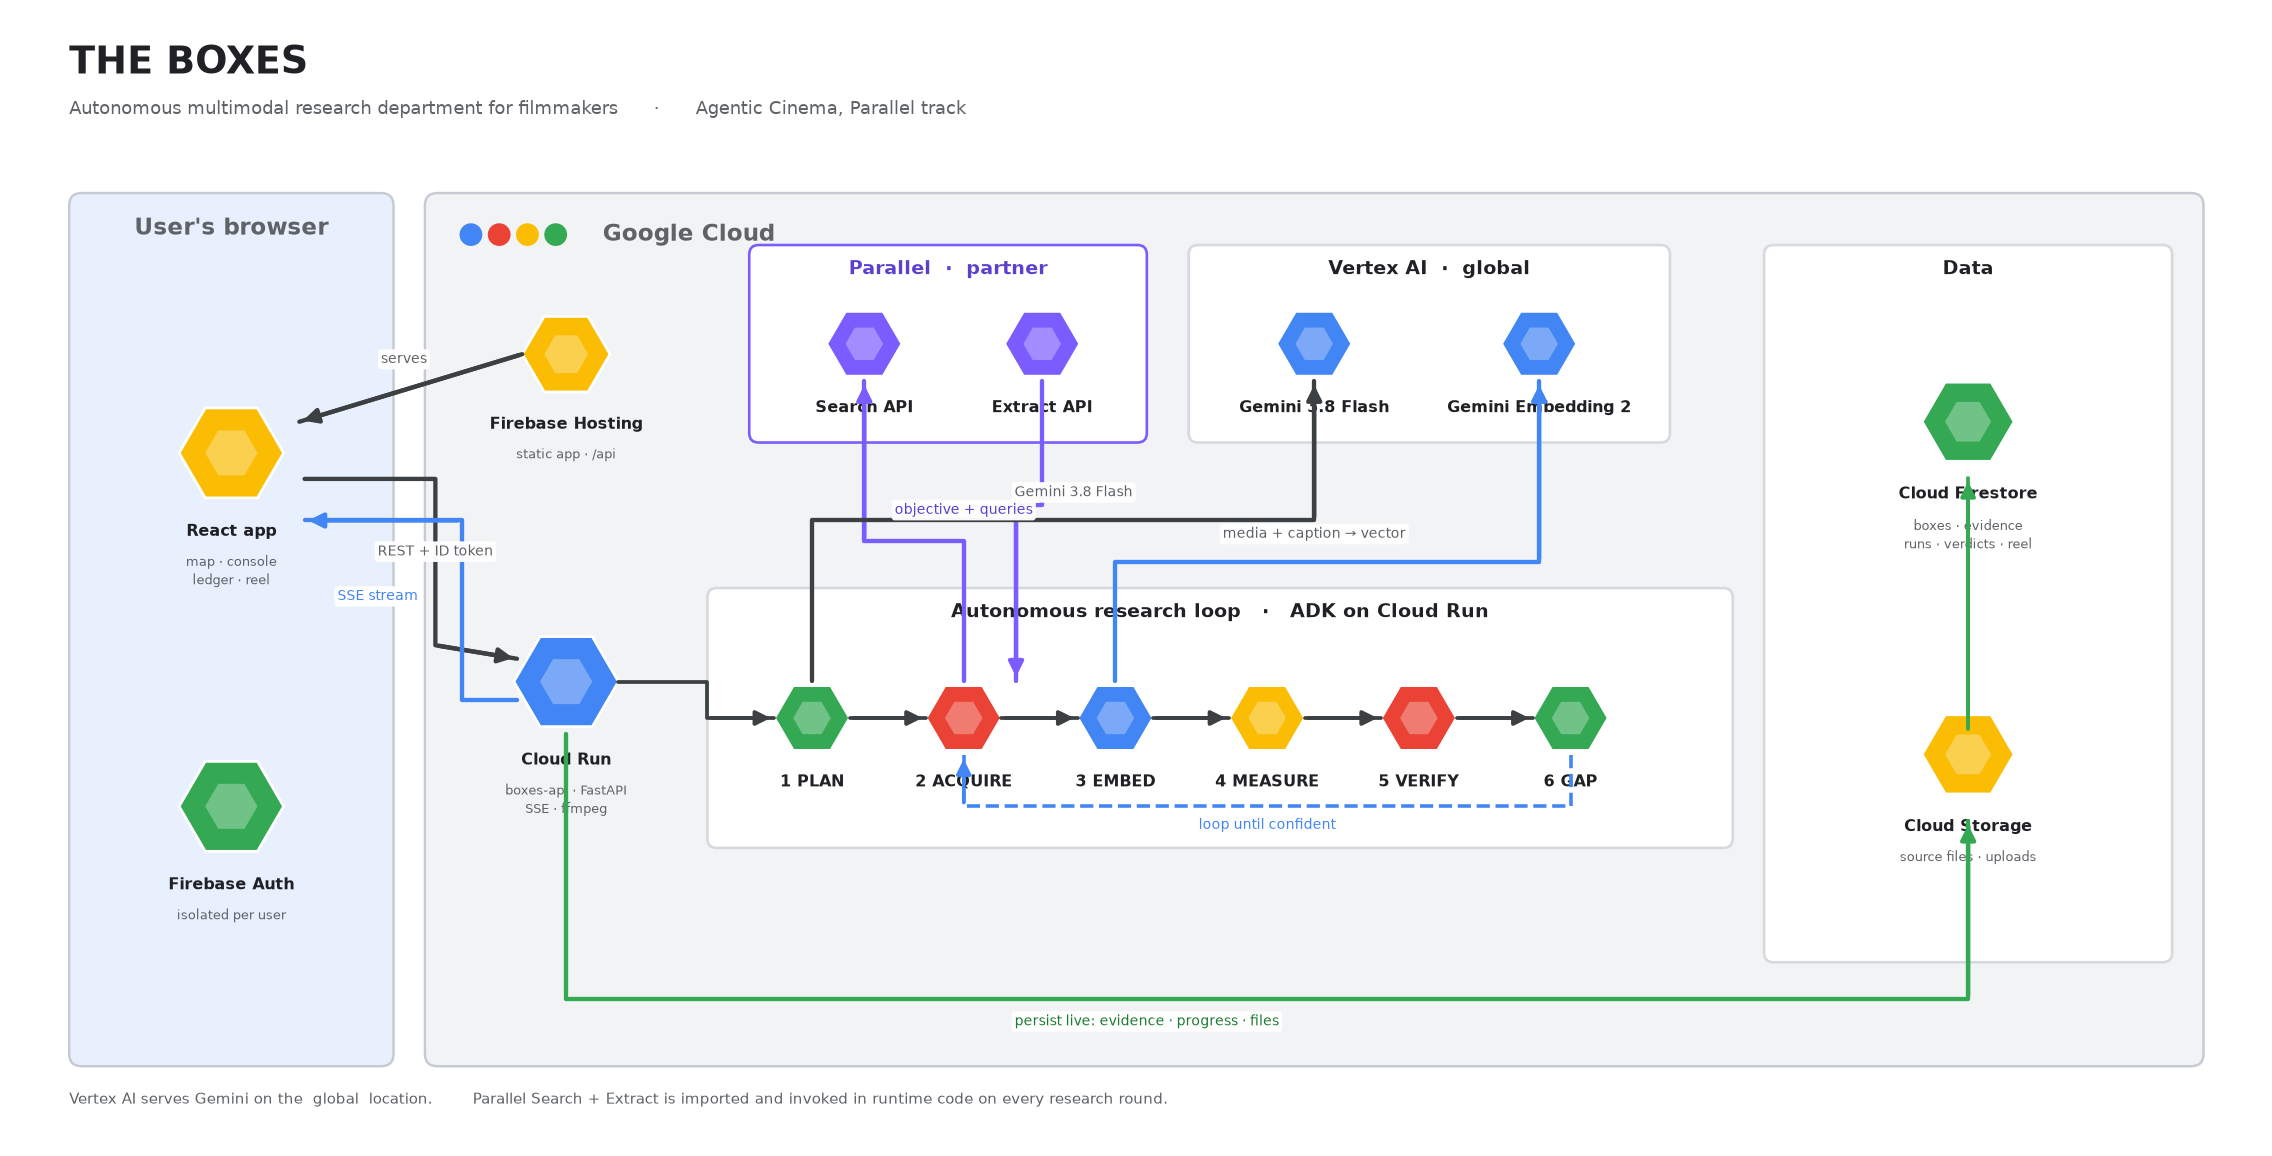
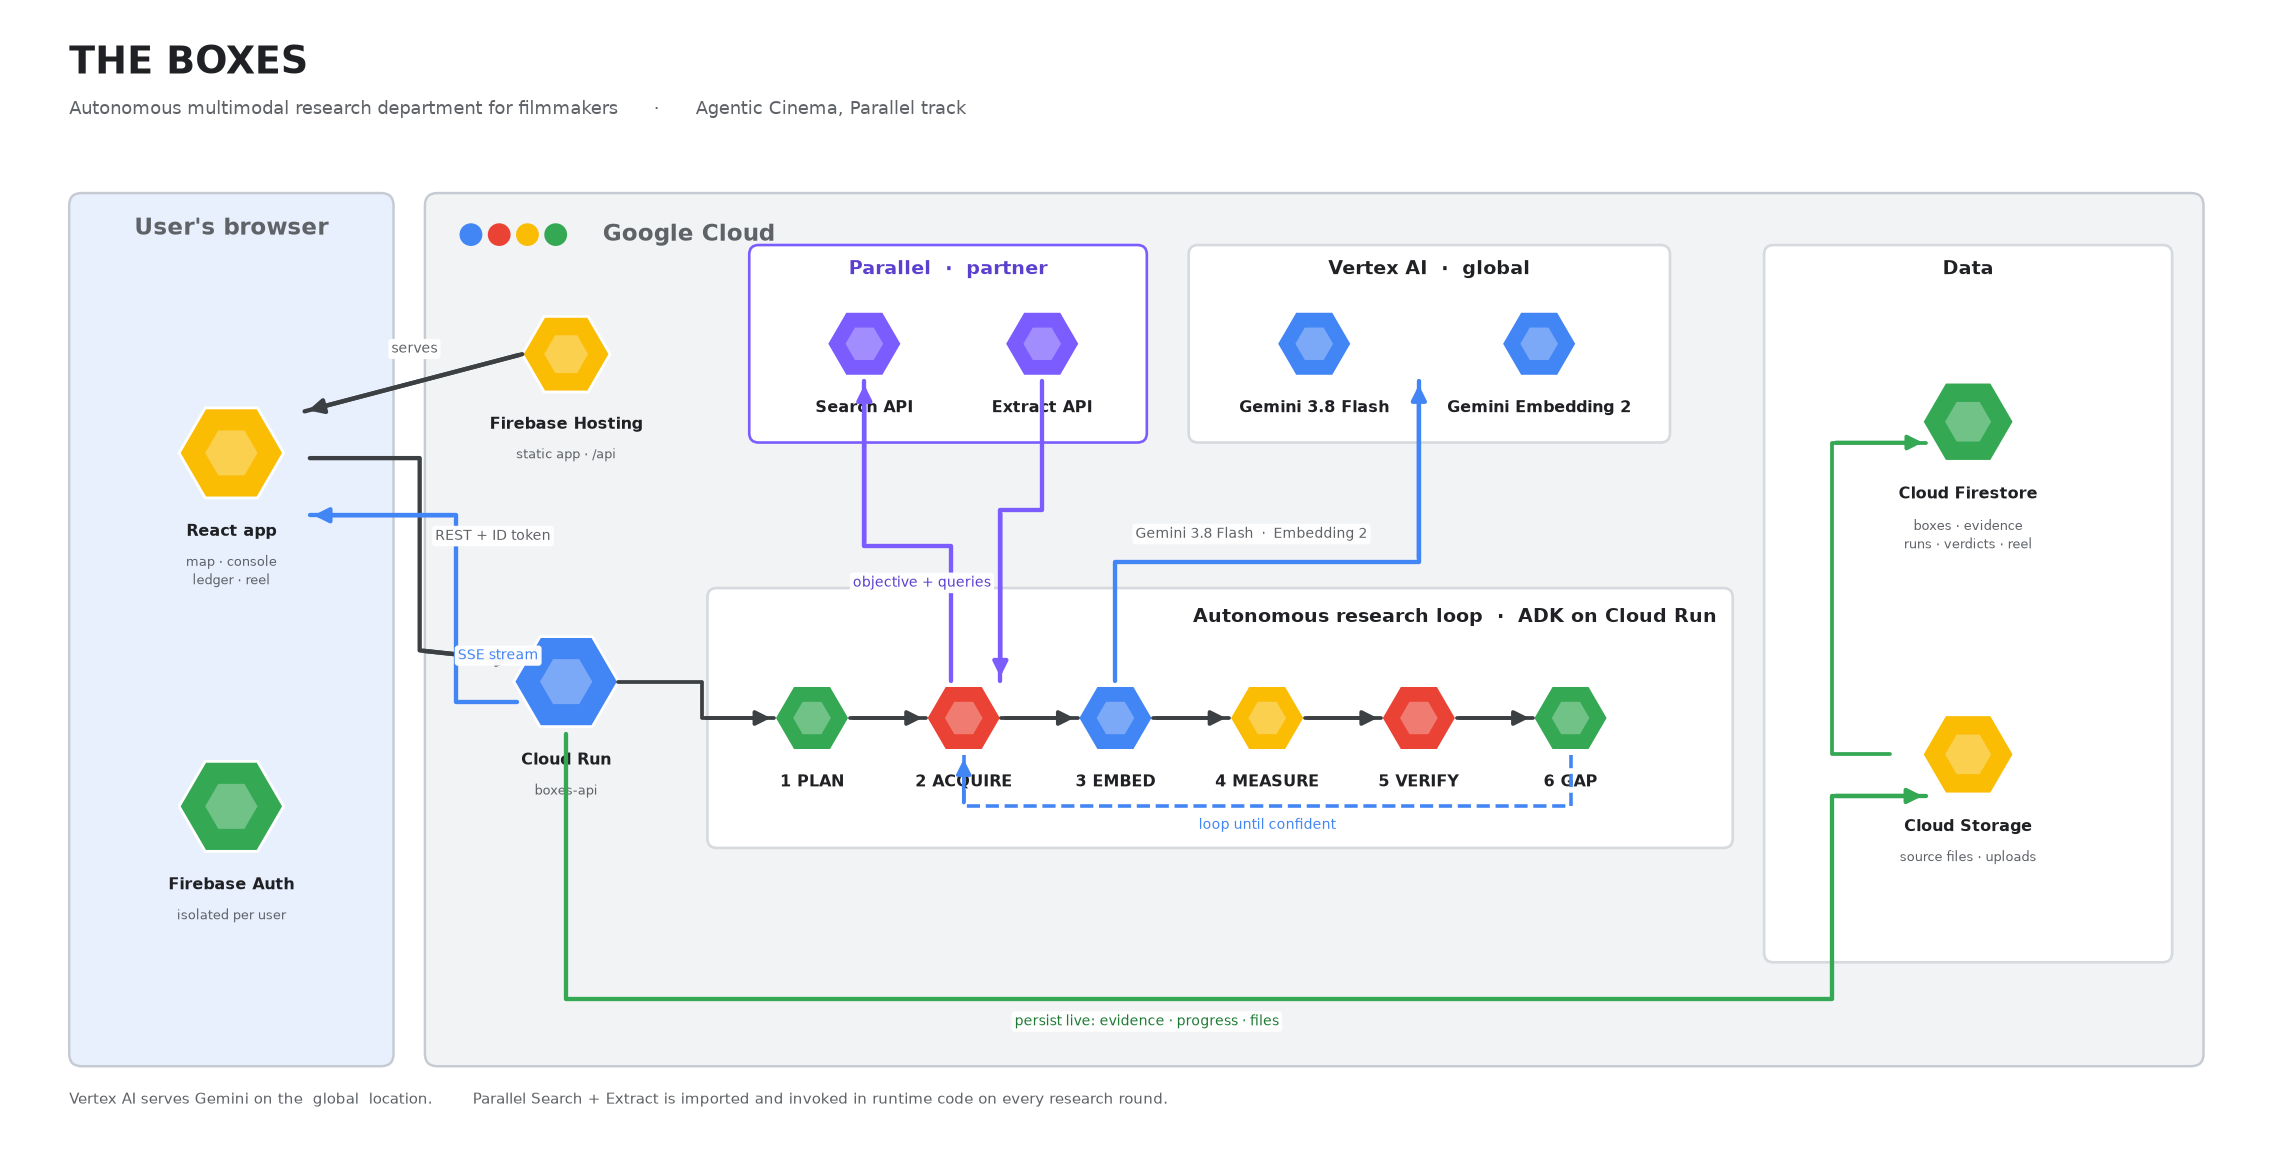
Diagram: move loop title clear of arrows; route Data arrows around labels

diff --git a/docs/architecture.py b/docs/architecture.py
@@ -71,7 +71,7 @@ zone(3.7, 0.5, 17.0, 8.4, "Google Cloud", Z_GREY, dots=True)
 
 # left column: Hosting + Cloud Run
 tile(5.05, 7.35, "Firebase Hosting", "static app · /api", color=YELLOW, r=0.42)
-tile(5.05, 4.2, "Cloud Run", "boxes-api · FastAPI\nSSE · ffmpeg", color=BLUE, r=0.5)
+tile(5.05, 4.2, "Cloud Run", "boxes-api", color=BLUE, r=0.5)
 
 # top strip: Parallel (partner) + Vertex AI
 cluster(6.8, 6.5, 3.8, 1.9, "Parallel  ·  partner", ec=PURPLE, tc="#5B3FCF")
@@ -81,8 +81,10 @@ cluster(11.0, 6.5, 4.6, 1.9, "Vertex AI  ·  global")
 tile(12.2, 7.45, "Gemini 3.8 Flash", color=BLUE, r=0.36)
 tile(14.35, 7.45, "Gemini Embedding 2", color=BLUE, r=0.36)
 
-# middle strip: the loop
-cluster(6.4, 2.6, 9.8, 2.5, "Autonomous research loop   ·   ADK on Cloud Run")
+# middle strip: the loop  (title right-aligned, clear of the upward arrows)
+cluster(6.4, 2.6, 9.8, 2.5, "")
+ax.text(16.05, 4.82, "Autonomous research loop  ·  ADK on Cloud Run", fontsize=10, color=INK,
+        weight="bold", ha="right", va="center", zorder=4)
 seq = [("1 PLAN", GREEN), ("2 ACQUIRE", RED), ("3 EMBED", BLUE),
        ("4 MEASURE", YELLOW), ("5 VERIFY", RED), ("6 GAP", GREEN)]
 lx0, dx, ly = 7.4, 1.45, 3.85
@@ -100,27 +102,25 @@ tile(18.45, 6.7, "Cloud Firestore", "boxes · evidence\nruns · verdicts · reel
 tile(18.45, 3.5, "Cloud Storage", "source files · uploads", color=YELLOW, r=0.44)
 
 # ── flow ─────────────────────────────────────────────────────────────
-wire([(4.63, 7.35), (2.5, 6.7)], text="serves", tp=(3.5, 7.3))
-wire([(2.55, 6.15), (3.8, 6.15), (3.8, 4.55), (4.58, 4.42)], text="REST + ID token", tp=(3.8, 5.45))
-wire([(4.58, 4.02), (4.05, 4.02), (4.05, 5.75), (2.55, 5.75)],
-     color=BLUE, tcol=BLUE, text="SSE stream", tp=(3.25, 5.02))
-wire([(5.55, 4.2), (6.4, 4.2), (6.4, ly), (cxs[0] - 0.36, ly)], lw=2.0)
+wire([(4.63, 7.35), (2.55, 6.8)], text="serves", tp=(3.6, 7.4))
+wire([(2.6, 6.35), (3.65, 6.35), (3.65, 4.5), (4.58, 4.4)], text="REST + ID token", tp=(4.35, 5.6))
+wire([(4.58, 4.0), (4.0, 4.0), (4.0, 5.8), (2.6, 5.8)],
+     color=BLUE, tcol=BLUE, text="SSE stream", tp=(4.4, 4.45))
+wire([(5.55, 4.2), (6.35, 4.2), (6.35, ly), (cxs[0] - 0.36, ly)], lw=2.0)
 
-# loop <-> Parallel (up)
-wire([(cxs[1], ly + 0.36), (cxs[1], 5.55), (7.9, 5.55), (7.9, 7.09)],
-     color=PURPLE, tcol="#5B3FCF", text="objective + queries", tp=(cxs[1], 5.85))
-wire([(9.6, 7.09), (9.6, 5.9), (cxs[1] + 0.5, 5.9), (cxs[1] + 0.5, ly + 0.36)], color=PURPLE)
+# loop <-> Parallel (up), both directions
+wire([(cxs[1] - 0.12, ly + 0.36), (cxs[1] - 0.12, 5.5), (7.9, 5.5), (7.9, 7.09)],
+     color=PURPLE, tcol="#5B3FCF", text="objective + queries", tp=(cxs[1] - 0.4, 5.15))
+wire([(9.6, 7.09), (9.6, 5.85), (cxs[1] + 0.35, 5.85), (cxs[1] + 0.35, ly + 0.36)], color=PURPLE)
 
-# loop -> Vertex (up)
-wire([(cxs[0], ly + 0.36), (cxs[0], 5.75), (12.2, 5.75), (12.2, 7.09)], text="Gemini 3.8 Flash",
-     tp=(9.9, 6.02))
-wire([(cxs[2], ly + 0.36), (cxs[2], 5.35), (14.35, 5.35), (14.35, 7.09)], color=BLUE,
-     text="media + caption → vector", tp=(12.2, 5.62))
+# loop -> Vertex (one consolidated arrow, routed clear of the title)
+wire([(cxs[2], ly + 0.36), (cxs[2], 5.35), (13.2, 5.35), (13.2, 7.09)], color=BLUE,
+     text="Gemini 3.8 Flash  ·  Embedding 2", tp=(11.6, 5.62))
 
-# Cloud Run -> Data (bottom rail, inside Google Cloud)
-wire([(5.05, 3.7), (5.05, 1.15), (18.45, 1.15), (18.45, 2.86)], color=GREEN, tcol="#1E7B34",
-     text="persist live: evidence · progress · files", tp=(10.6, 0.93))
-wire([(18.45, 3.74), (18.45, 6.16)], color=GREEN, lw=2.0)
+# Cloud Run -> Data (bottom rail; enters the Data tiles on the left, clear of labels)
+wire([(5.05, 3.7), (5.05, 1.15), (17.15, 1.15), (17.15, 3.1), (18.05, 3.1)],
+     color=GREEN, tcol="#1E7B34", text="persist live: evidence · progress · files", tp=(10.6, 0.93))
+wire([(17.7, 3.5), (17.15, 3.5), (17.15, 6.5), (18.05, 6.5)], color=GREEN, lw=2.0)
 
 ax.text(0.3, 0.14, "Vertex AI serves Gemini on the  global  location.        Parallel Search + Extract is imported and "
         "invoked in runtime code on every research round.", fontsize=8, color=SUB)
